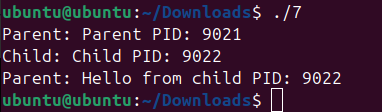
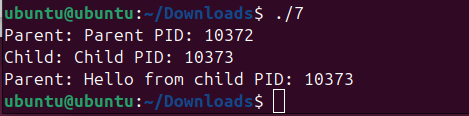
7 wait

diff --git a/7.c b/7.c
@@ -10,7 +10,7 @@ int main(void)
     pipe(fd);
 
     pid_t pid = fork();
-
+    wait(NULL);
     if (pid == 0)
     {
         close(fd[0]);

diff --git a/README.md b/README.md
@@ -242,13 +242,7 @@ int main(void)
     pipe(fd);
 
     pid_t pid = fork();
-
-    if (pid < 0)
-    {
-        perror("fork");
-        return 1;
-    }
-
+    wait(NULL);
     if (pid == 0)
     {
         close(fd[0]);
@@ -300,7 +294,7 @@ Parent: Hello from child PID: 9022
 ![7.png Results](picture/7.png)
 
 #### Discussion
-
+The program uses a pipe to allow the child process to send a message to the parent process. The child writes its PID into the pipe, and the parent reads the message and prints it. However, the output shows Hello from child PID: 9022, which matches the parent PID rather than the child PID 9021. This is because the child creates the message using `getpid()`.
 
 ---
 
